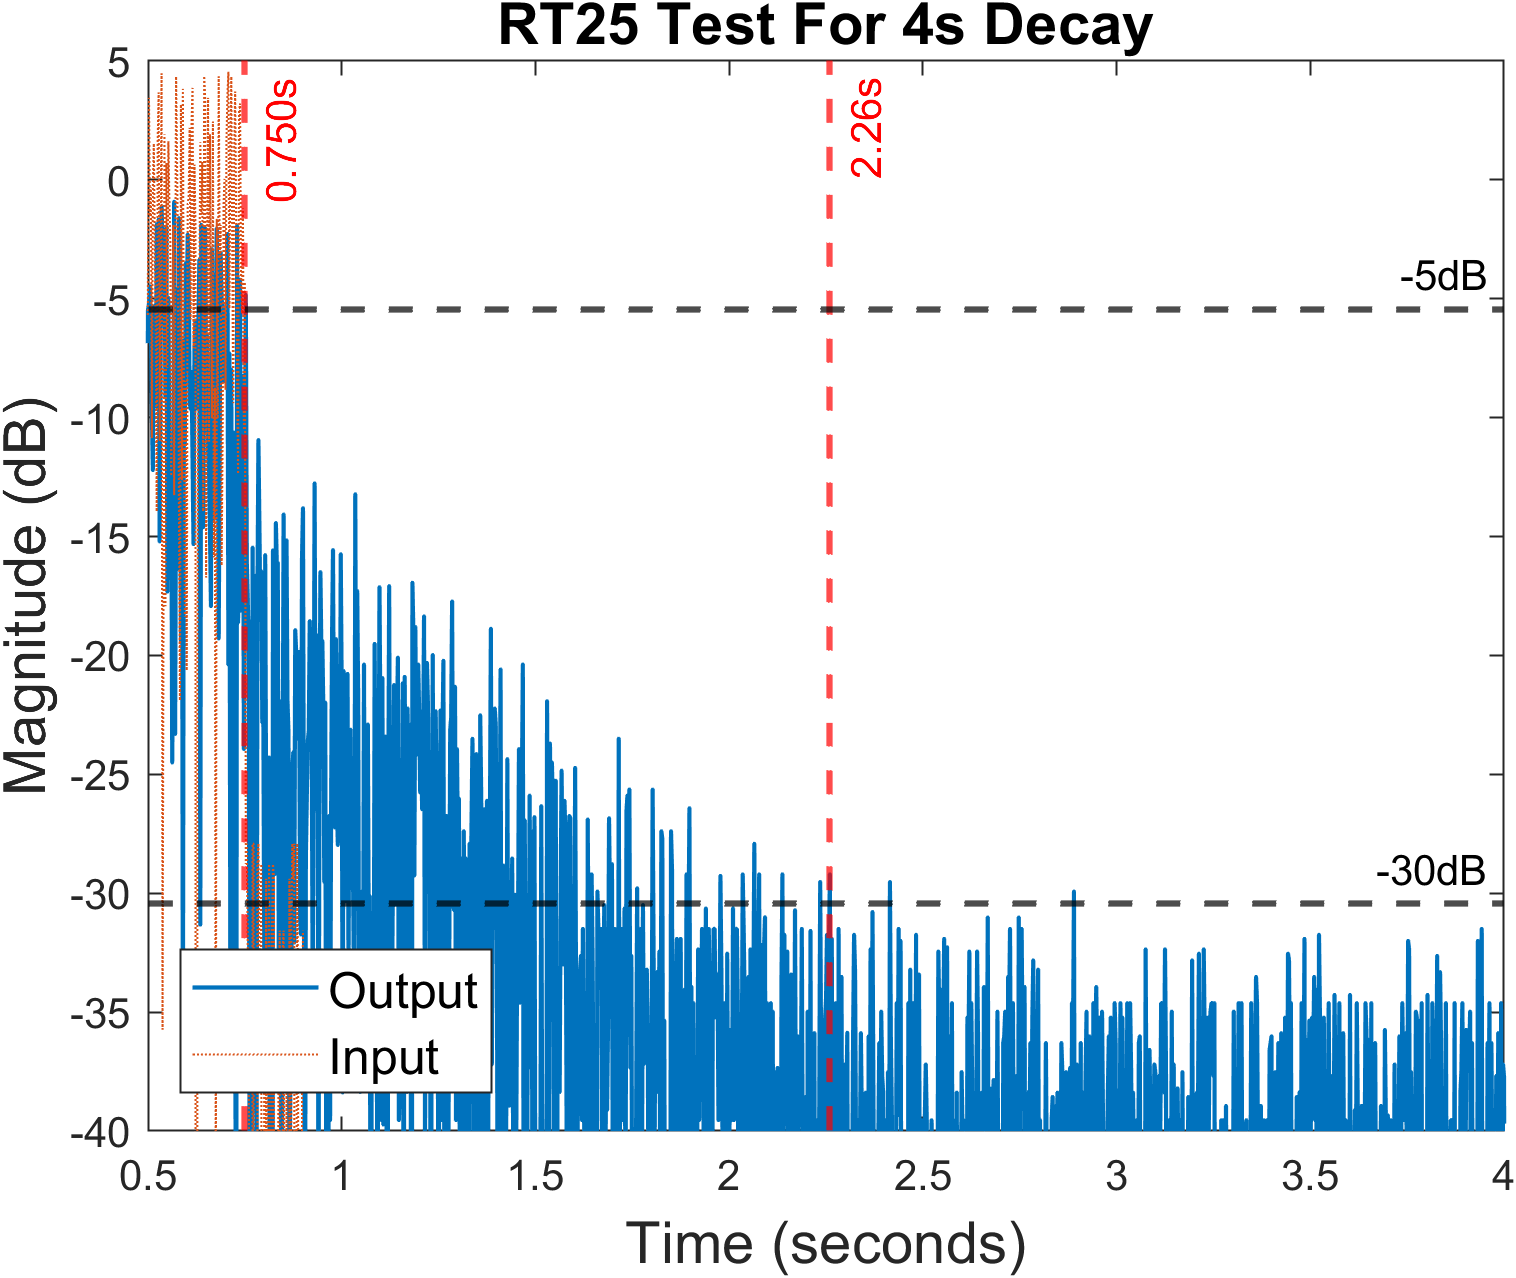
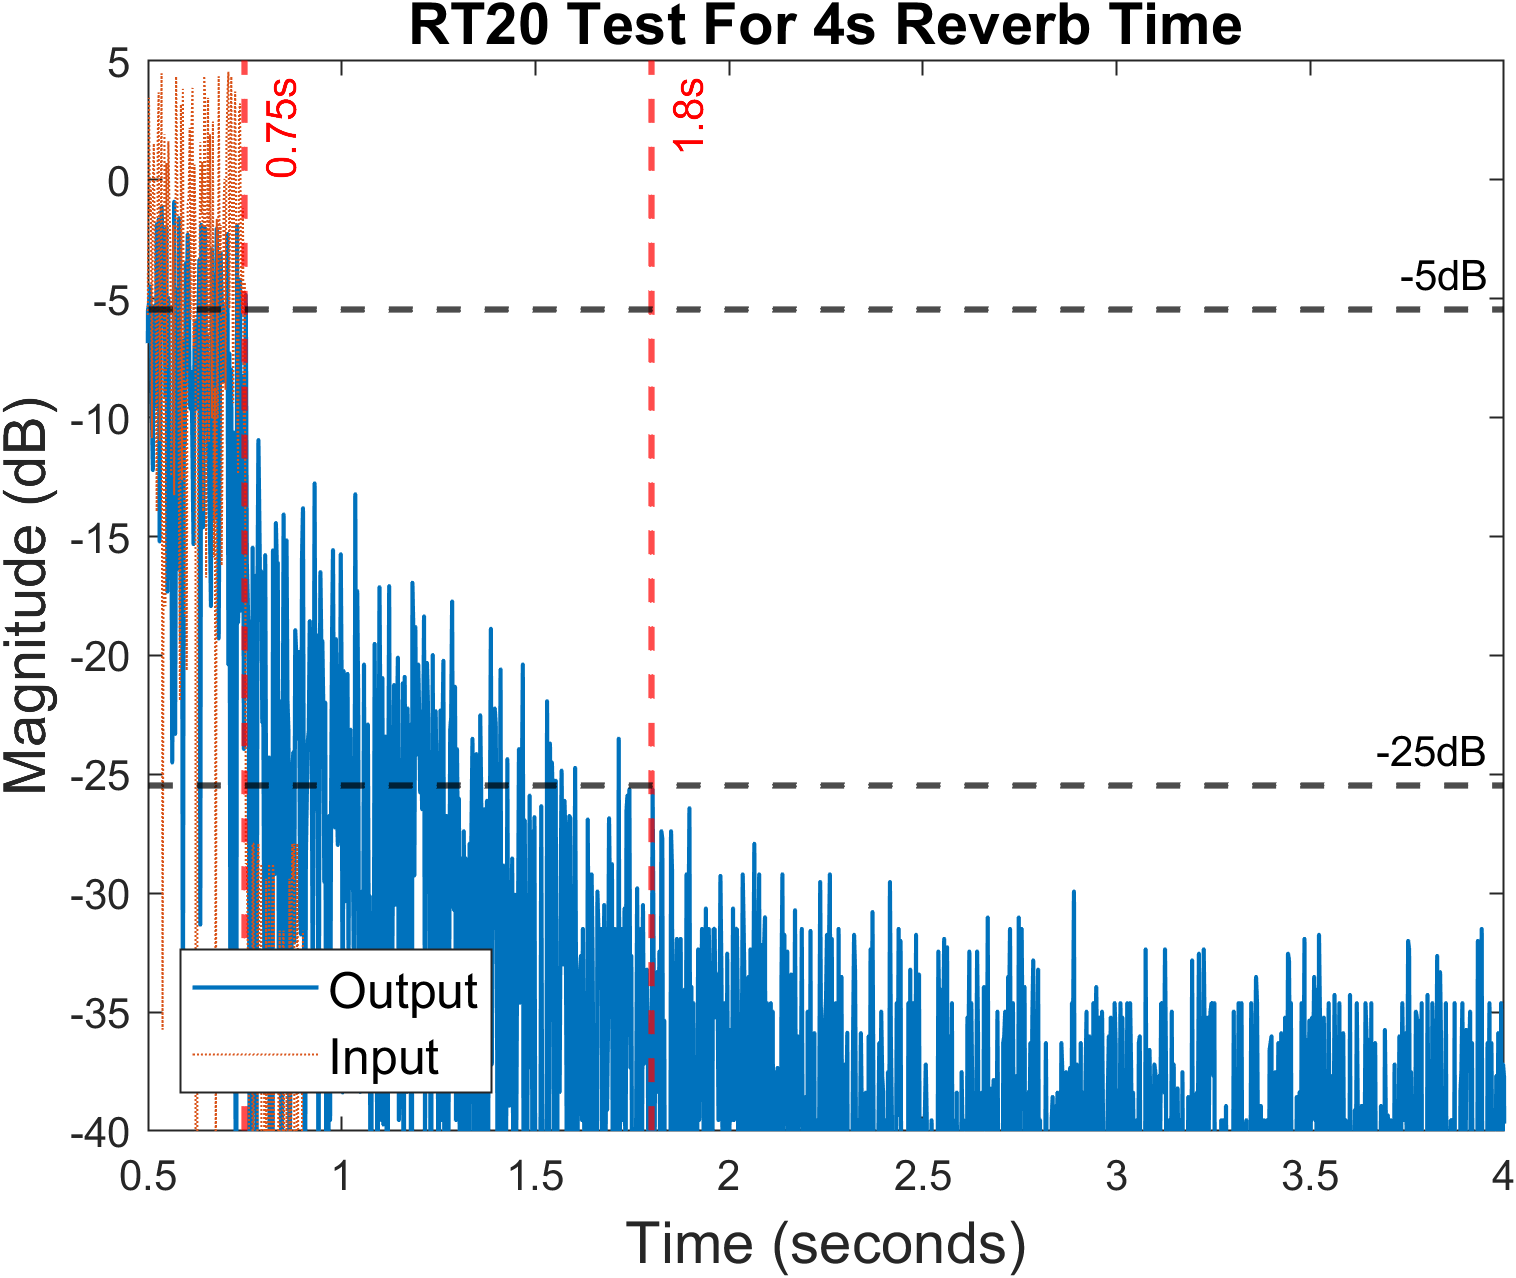
changed from rt25 to rt20

diff --git a/system_design/reverb/reverb_c_tests/reverb_rt60_test_noisefloor.m b/system_design/reverb/reverb_c_tests/reverb_rt60_test_noisefloor.m
@@ -23,7 +23,7 @@ hold on;
 s1 = plot(data.xaxis(idx),ch1_dB(idx),':');
 hold on;
 noise = plot(data.xaxis,noise_dB,'-','LineWidth',3);
-title('RT20 Test For 4s Decay', FontSize=14);
+title('RT20 Test For 4s Reverb Time', FontSize=14);
 xlim([0.5 4]);
 ylim([-40 5]);
 
@@ -37,6 +37,6 @@ legend([s2, s1, noise], {'Output', 'Input', 'Noise Floor'}, 'Location', 'SouthWe
 xlabel('Time (seconds)', FontSize=14);
 ylabel('Magnitude (dB)', FontSize=14);
 
-% saveFolder = fullfile(pwd,'..','..','..','gitfigures/system_design/reverb/');
-% filePath = fullfile(saveFolder, sprintf('%s.png','reverb_rt60_test_noisefloor'));
-% exportgraphics(figc(1), filePath, 'Resolution', 300);
+saveFolder = fullfile(pwd,'..','..','..','gitfigures/system_design/reverb/');
+filePath = fullfile(saveFolder, sprintf('%s.png','reverb_rt60_test_noisefloor'));
+exportgraphics(figc(1), filePath, 'Resolution', 300);

diff --git a/system_design/reverb/reverb_c_tests/reverb_rt60_test_05.m b/system_design/reverb/reverb_c_tests/reverb_rt60_test_05.m
@@ -23,7 +23,7 @@ hold on;
 s1 = plot(data.xaxis(idx),ch1_dB(idx),':');
 %hold on;
 %plot(data.xaxis,noise_dB,'-','LineWidth',3);
-title('RT20 Test For 0.5s Decay', FontSize=14);
+title('RT20 Test For 0.5s Reverb Time', FontSize=14);
 xlim([0.5 1.5]);
 ylim([-40 5]);
 
@@ -37,6 +37,6 @@ legend([s2, s1], {'Output', 'Input'}, 'Location', 'SouthWest', FontSize=12);
 xlabel('Time (seconds)', FontSize=14);
 ylabel('Magnitude (dB)', FontSize=14);
 
-% saveFolder = fullfile(pwd,'..','..','..','gitfigures/system_design/reverb/');
-% filePath = fullfile(saveFolder, sprintf('%s.png','reverb_rt60_test_0.5'));
-% exportgraphics(figb(1), filePath, 'Resolution', 300);
+saveFolder = fullfile(pwd,'..','..','..','gitfigures/system_design/reverb/');
+filePath = fullfile(saveFolder, sprintf('%s.png','reverb_rt60_test_0.5'));
+exportgraphics(figb(1), filePath, 'Resolution', 300);

diff --git a/system_design/reverb/reverb_c_tests/reverb_rt60_test_4.m b/system_design/reverb/reverb_c_tests/reverb_rt60_test_4.m
@@ -23,7 +23,7 @@ hold on;
 s1 = plot(data.xaxis(idx),ch1_dB(idx),':');
 %hold on;
 %plot(data.xaxis,noise_dB,'-','LineWidth',3);
-title('RT20 Test For 4s Decay', FontSize=14);
+title('RT20 Test For 4s Reverb Time', FontSize=14);
 xlim([0.5 4]);
 ylim([-40 5]);
 
@@ -37,6 +37,6 @@ legend([s2, s1], {'Output', 'Input'}, 'Location', 'SouthWest', FontSize=12);
 xlabel('Time (seconds)', FontSize=14);
 ylabel('Magnitude (dB)', FontSize=14);
 
-% saveFolder = fullfile(pwd,'..','..','..','gitfigures/system_design/reverb/');
-% filePath = fullfile(saveFolder, sprintf('%s.png','reverb_rt60_test_4'));
-% exportgraphics(figa(1), filePath, 'Resolution', 300);
+saveFolder = fullfile(pwd,'..','..','..','gitfigures/system_design/reverb/');
+filePath = fullfile(saveFolder, sprintf('%s.png','reverb_rt60_test_4'));
+exportgraphics(figa(1), filePath, 'Resolution', 300);
